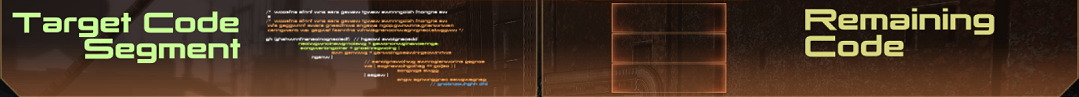
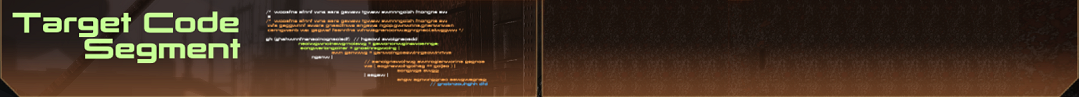
markup 코드 추가

Changed region(s): [[0.5505, 0.0, 0.6728, 0.9588], [0.734, 0.0928, 0.9481, 0.3711], [0.734, 0.3402, 0.8563, 0.5876]]

diff --git a/src/markup.html b/src/markup.html
@@ -21,7 +21,9 @@
             <h2>Target Code Segment</h2>
 
             <div class="bp_segment">
-                <img src="img/code_segment.png">
+                <div>
+                    <img src="img/codes/3.png">
+                </div>
             </div>
         </div>
 
@@ -30,17 +32,19 @@
                 Remaining Code
             </dt>
             <dd>
-                <img src="img/remained_code.png"/>
+                <div><img src="img/codes/10.png"></div>
+                <div></div>
+                <div></div>
             </dd>
         </dl>
     </div>
     <div class="bp_slider">
         <ul>
-            <li><img class="bp_card" src="img/normal_card.png"><img class="bp_card" src="img/normal_card.png"><img class="bp_card" src="img/normal_card.png"></li>
-            <li><img class="bp_card" src="img/normal_card.png"><img class="bp_card" src="img/normal_card.png"><img class="bp_card" src="img/normal_card.png"></li>
-            <li><img class="bp_card" src="img/normal_card.png"><img class="bp_card" src="img/normal_card.png"><img class="bp_card" src="img/normal_card.png"></li>
-            <li><img class="bp_card" src="img/normal_card.png"><img class="bp_card" src="img/normal_card.png"><img class="bp_card" src="img/normal_card.png"></li>
-            <li><img class="bp_card" src="img/normal_card.png"><img class="bp_card" src="img/normal_card.png"><img class="bp_card" src="img/normal_card.png"></li>
+            <li><img class="bp_card" src="img/codes/1.png"><img class="bp_card" src="img/codes/8.png"><img class="bp_card" src="img/codes/9.png"></li>
+            <li><img class="bp_card" src="img/codes/2.png"><img class="bp_card" src="img/codes/3.png"><img class="bp_card" src="img/codes/4.png"></li>
+            <li><img class="bp_card" src="img/codes/5.png"><img class="bp_card" src="img/codes/6.png"><img class="bp_card" src="img/codes/7.png"></li>
+            <li><img class="bp_card" src="img/codes/8.png"><img class="bp_card" src="img/codes/9.png"><img class="bp_card" src="img/codes/10.png"></li>
+            <li><img class="bp_card" src="img/codes/1.png"><img class="bp_card" src="img/codes/2.png"><img class="bp_card" src="img/codes/3.png"></li>
         </ul>
     </div>
     <div class="bp_footer"></div>

diff --git a/src/css/style.css b/src/css/style.css
@@ -69,7 +69,19 @@ body {
 
 .bp_segment {
     float:left;
-    margin-left: 20px;
+    margin-left: 5px;
+}
+
+.bp_segment > DIV {
+    width: 280px;
+    overflow: hidden;
+    text-indent: -20px;
+    padding-top: 4px;
+}
+
+.bp_segment > DIV > IMG {
+    width: 328px;
+    height: 78px;
 }
 
 .bp_status_panel {
@@ -93,6 +105,24 @@ body {
     text-indent: -1400px;
 }
 
+.bp_status_panel > dd {
+    width: 114px;
+    height: 90px;
+}
+
+.bp_status_panel > dd > DIV {
+    height: 28px;
+    width: 112px;
+    overflow: hidden;
+    border-style: solid;
+    border-width: 1px;
+    border-color: #9D5D39;
+}
+
+.bp_status_panel > dd > DIV > IMG{
+    height: 28px;
+}
+
 .bp_slider {
     height: 340px;
     margin-left: 18px;
@@ -101,11 +131,11 @@ body {
     width: 1042px;
 }
 
-.bp_slider ul {
+.bp_slider > ul {
     margin: 0px;
     padding: 0px;
 }
-.bp_slider ul li {
+.bp_slider > ul > li {
     margin: 0px 0px -3px 0px;
     padding: 0px;
     list-style-type: none;
@@ -116,6 +146,8 @@ body {
     border-width: 1px;
     border-color: #DFBA7A;
     margin-right: 8px;
+    width: 340px;
+    height: 81px;
 }
 
 .bp_card:last-child {

diff --git a/src/js/app/base.js b/src/js/app/base.js
@@ -17,4 +17,5 @@ define(['jquery',
             }, 50);
         }
     }
+    window.test.testUiProgress();
 });
